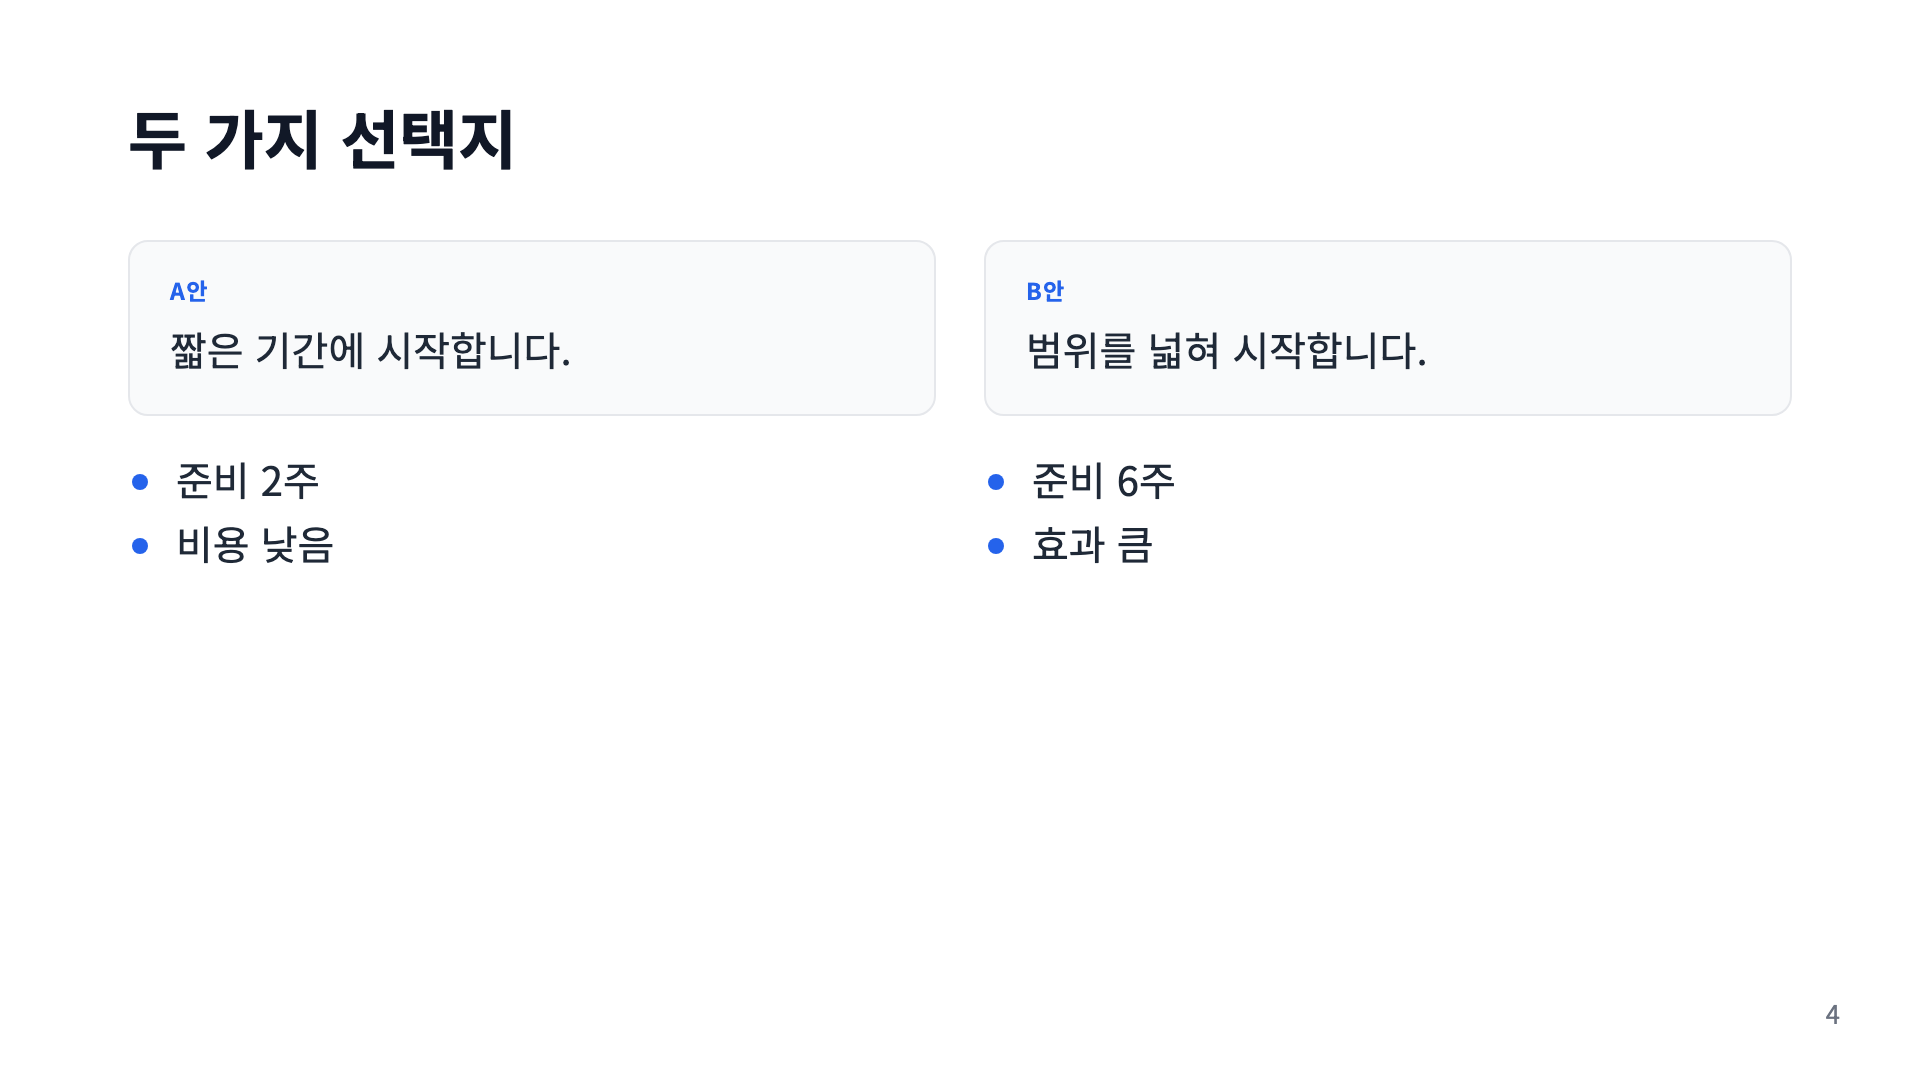
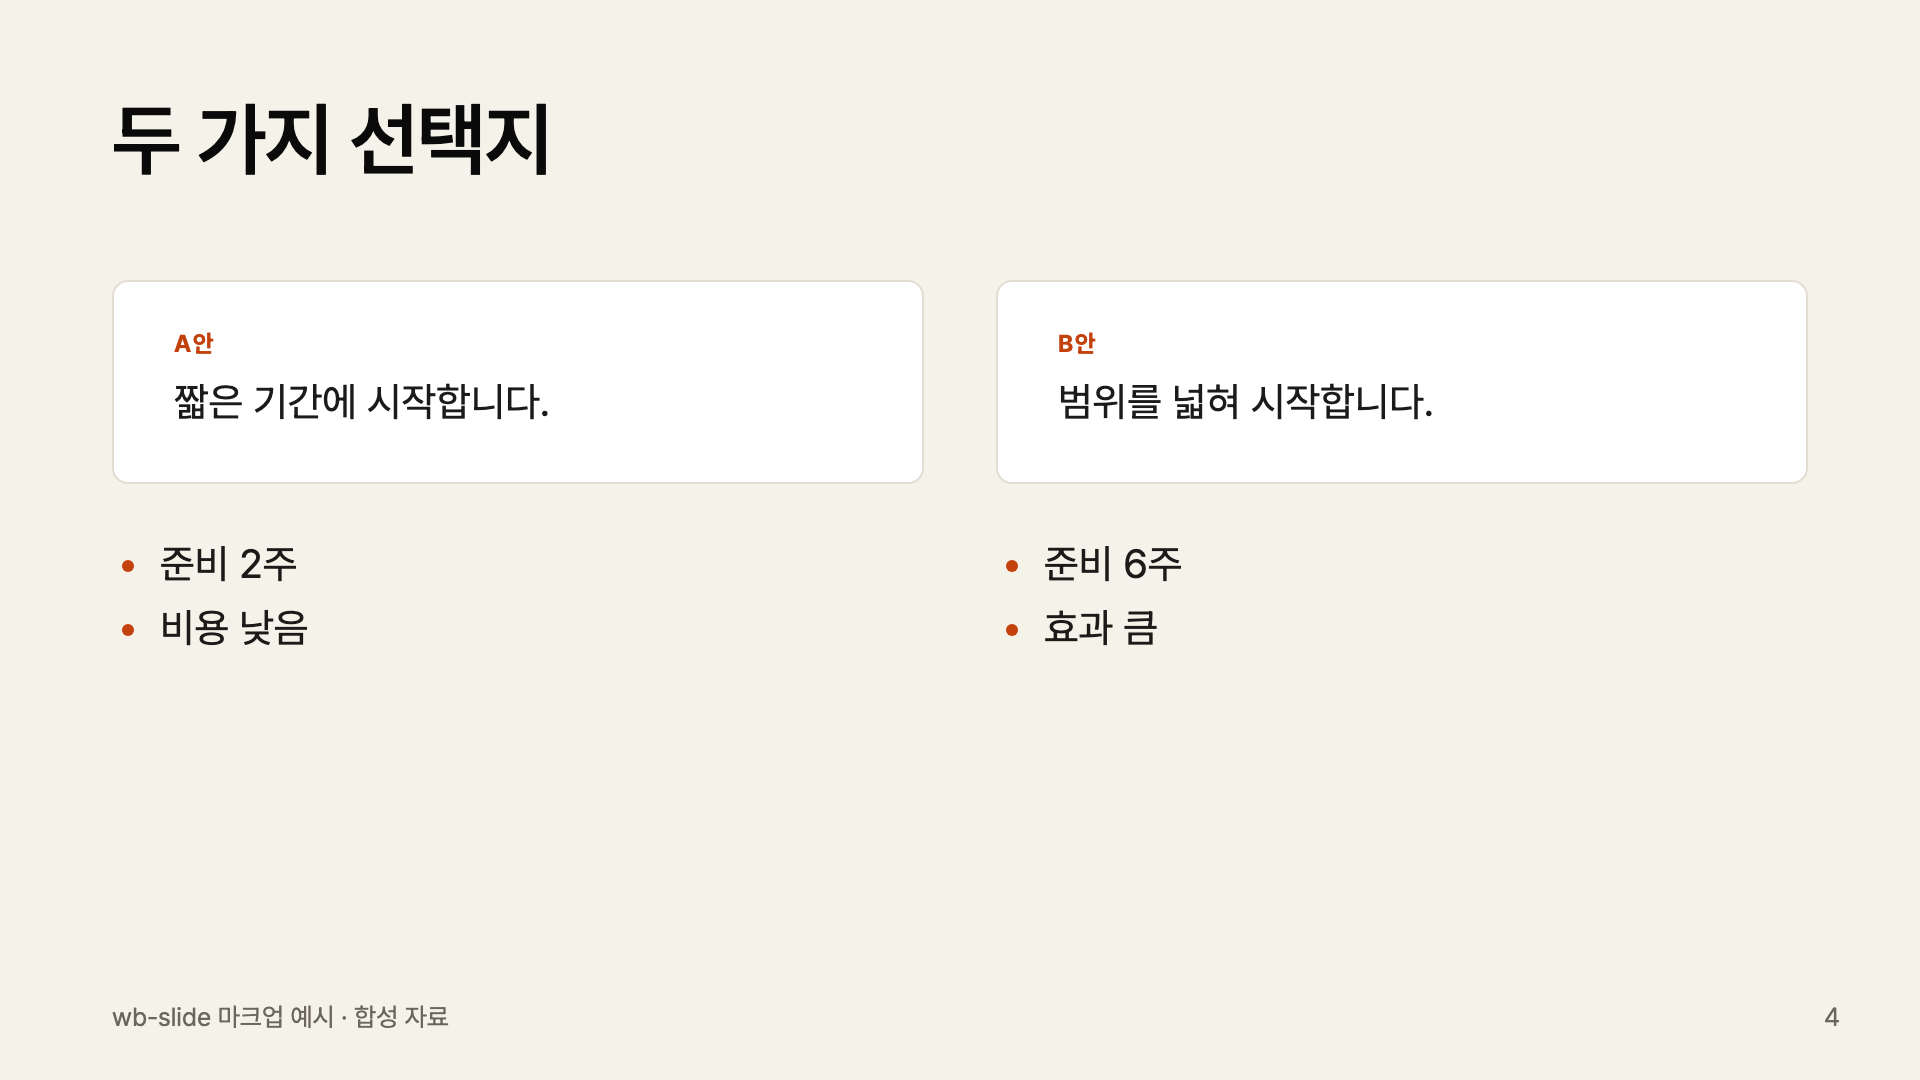
feat: paper becomes the default markup theme; old look is classic
Per butler: default.css now holds the design study's paper tokens, and the
name paper stays as an alias. The earlier white default is --theme classic.
Sample PNGs are re-rendered with PretendardVariable.

Sonnet review fixes:
- overflow-wrap: anywhere, so long tokens cannot widen grid tracks.
- classic and night keep the 0.72rem label size.
- Docs say the stat size and inverse colours are reserved until the stat and
  section PRs; the token table covers all themes.

diff --git a/framework/presets/themes/default.css b/framework/presets/themes/default.css
@@ -1,26 +1,26 @@
 --wb-font: Pretendard, -apple-system, 'Segoe UI', Roboto, sans-serif;
---wb-title-size: 32px;
---wb-title-weight: 700;
---wb-title-color: #111827;
---wb-subtitle-size: 22px;
+--wb-title-size: 40px;
+--wb-title-weight: 600;
+--wb-title-color: #0A0A0A;
+--wb-subtitle-size: 24px;
 --wb-body-size: 20px;
---wb-center-size: 40px;
---wb-text: #1F2937;
---wb-muted: #6B7280;
---wb-accent: #2563EB;
---wb-bg: #FFFFFF;
---wb-card-bg: #F9FAFB;
---wb-border: #E5E7EB;
---wb-radius: 10px;
---wb-safe-x: 64px;
+--wb-center-size: 64px;
+--wb-text: #1C1B19;
+--wb-muted: #6B675F;
+--wb-accent: #C2410C;
+--wb-bg: #F5F2EA;
+--wb-card-bg: #FFFFFF;
+--wb-border: #E2DDD2;
+--wb-radius: 8px;
+--wb-safe-x: 56px;
 --wb-safe-y: 48px;
---wb-gap: 16px;
---wb-image-height: 280px;
---wb-vertical: safe center;
---wb-title-tracking: normal;
---wb-title-leading: 1.25;
---wb-measure: 100%;
---wb-stat-size: 96px;
+--wb-gap: 24px;
+--wb-image-height: 300px;
+--wb-vertical: start;
+--wb-title-tracking: -0.02em;
+--wb-title-leading: 1.1;
+--wb-measure: 60%;
+--wb-stat-size: 120px;
 --wb-label-size: 12px;
---wb-inverse-bg: #111827;
---wb-inverse-text: #F9FAFB;
+--wb-inverse-bg: #1C1B19;
+--wb-inverse-text: #F5F2EA;

diff --git a/framework/presets/themes/classic.css b/framework/presets/themes/classic.css
@@ -1,0 +1,26 @@
+--wb-font: Pretendard, -apple-system, 'Segoe UI', Roboto, sans-serif;
+--wb-title-size: 32px;
+--wb-title-weight: 700;
+--wb-title-color: #111827;
+--wb-subtitle-size: 22px;
+--wb-body-size: 20px;
+--wb-center-size: 40px;
+--wb-text: #1F2937;
+--wb-muted: #6B7280;
+--wb-accent: #2563EB;
+--wb-bg: #FFFFFF;
+--wb-card-bg: #F9FAFB;
+--wb-border: #E5E7EB;
+--wb-radius: 10px;
+--wb-safe-x: 64px;
+--wb-safe-y: 48px;
+--wb-gap: 16px;
+--wb-image-height: 280px;
+--wb-vertical: safe center;
+--wb-title-tracking: normal;
+--wb-title-leading: 1.25;
+--wb-measure: 100%;
+--wb-stat-size: 96px;
+--wb-label-size: 0.72rem;
+--wb-inverse-bg: #111827;
+--wb-inverse-text: #F9FAFB;

diff --git a/framework/presets/slide.css b/framework/presets/slide.css
@@ -8,7 +8,7 @@
   --color-border: var(--wb-border);
 }
 /* Korean wraps between words, never inside one; very long tokens may still break. */
-.ms-slide-container { word-break: keep-all; overflow-wrap: break-word; }
+.ms-slide-container { word-break: keep-all; overflow-wrap: anywhere; }
 .ms-feature-layout { padding: var(--wb-safe-y) var(--wb-safe-x); gap: var(--wb-gap); }
 .ms-slide-title {
   font-size: var(--wb-title-size);

diff --git a/framework/presets/themes/night.css b/framework/presets/themes/night.css
@@ -21,6 +21,6 @@
 --wb-title-leading: 1.25;
 --wb-measure: 100%;
 --wb-stat-size: 96px;
---wb-label-size: 12px;
+--wb-label-size: 0.72rem;
 --wb-inverse-bg: #F9FAFB;
 --wb-inverse-text: #111827;

diff --git a/src/markup.rs b/src/markup.rs
@@ -10,7 +10,7 @@ const DEFAULT_THEME: &str = include_str!("../framework/presets/themes/default.cs
 /// Built-in themes beside default; each sets every token.
 const THEMES: &[(&str, &str)] = &[
     ("night", include_str!("../framework/presets/themes/night.css")),
-    ("paper", include_str!("../framework/presets/themes/paper.css")),
+    ("classic", include_str!("../framework/presets/themes/classic.css")),
     ("graphite", include_str!("../framework/presets/themes/graphite.css")),
     ("signal", include_str!("../framework/presets/themes/signal.css")),
 ];
@@ -324,7 +324,8 @@ fn tokens(source: &str, origin: &str) -> Result<String> {
 /// Preset CSS: default tokens, then the chosen theme (built-in name or token file), then role styles.
 pub fn preset_css(theme: Option<&str>) -> Result<String> {
     let overrides = match theme {
-        None | Some("default") => String::new(),
+        // paper is the default look; the name stays as an alias.
+        None | Some("default") | Some("paper") => String::new(),
         Some(name) if THEMES.iter().any(|(n, _)| *n == name) => {
             tokens(THEMES.iter().find(|(n, _)| *n == name).unwrap().1, name)?
         }
@@ -517,15 +518,16 @@ mod tests {
     #[test]
     fn preset_defaults_and_theme_override() {
         let css = preset_css(None).unwrap();
-        assert!(css.contains("--wb-title-size: 32px;") && css.contains("--wb-font: Pretendard"));
+        assert!(css.contains("--wb-title-size: 40px;") && css.contains("--wb-font: Pretendard"));
         assert!(css.contains(".ms-slide-title") && css.contains("var(--wb-title-size)"));
         let night = preset_css(Some("night")).unwrap();
         // Overrides come after defaults inside :root, so the later value wins.
-        assert!(night.rfind("--wb-title-size: 36px;").unwrap() > night.find("--wb-title-size: 32px;").unwrap());
+        assert!(night.rfind("--wb-title-size: 36px;").unwrap() > night.find("--wb-title-size: 40px;").unwrap());
         for (name, source) in THEMES {
             assert_eq!(tokens(source, name).unwrap().lines().count(), token_names().len(), "{name}");
         }
-        assert!(preset_css(Some("paper")).unwrap().contains("--wb-bg: #F5F2EA;"));
+        assert_eq!(preset_css(Some("paper")).unwrap(), css);
+        assert!(preset_css(Some("classic")).unwrap().contains("--wb-title-size: 32px;"));
         assert!(tokens("--wb-vertical: start;", "t").is_ok());
         for (bad, msg) in [
             ("--wb-bg: url(http://x);", "must be plain"),

diff --git a/tools/test_render.py b/tools/test_render.py
@@ -146,7 +146,7 @@ class RenderTest(unittest.TestCase):
 
     def test_markup_preset_themes_apply(self):
         corners = {}
-        for theme in ["default", "night", "paper", "graphite", "signal"]:
+        for theme in ["classic", "default", "night", "graphite", "signal"]:
             output = self.root / f"{theme}.html"
             subprocess.run([self.binary, "export", "--markup", ROOT / "samples/markup/deck.html",
                             "--theme", theme, "-o", output], check=True)
@@ -179,14 +179,14 @@ class RenderTest(unittest.TestCase):
             body = ImageChops.difference(png, Image.new("RGB", png.size, png.getpixel((4, 4)))).crop((0, 360, 1920, 1000)).getbbox()
             self.assertIsNotNone(body)
             # The study themes hang the body from the top axis (--wb-vertical: start).
-            if theme in ("default", "night"):
+            if theme in ("classic", "night"):
                 self.assertGreater(body[1], 120)
             else:
                 self.assertLess(body[1], 60)
             corners[theme] = png.getpixel((4, 4))
-        self.assertEqual(corners["default"], (255, 255, 255))
+        self.assertEqual(corners["classic"], (255, 255, 255))
+        self.assertEqual(corners["default"], (0xF5, 0xF2, 0xEA))
         self.assertEqual(corners["night"], (0x11, 0x18, 0x27))
-        self.assertEqual(corners["paper"], (0xF5, 0xF2, 0xEA))
         self.assertEqual(corners["graphite"], (0x0B, 0x0C, 0x0E))
         self.assertEqual(corners["signal"], (0x3B, 0x2B, 0xDB))
 

diff --git a/docs/markup-dsl.md b/docs/markup-dsl.md
@@ -58,11 +58,11 @@ The preset has two layers:
   theme too.
 - **A theme**: a swappable set of token values covering fonts, type scale,
   palette, spacing and per-role styles. Each theme is a file of
-  `--wb-name: value;` lines. The built-in themes are `themes/default.css`, `night.css`, and the
-  design-study themes `paper.css` (light editorial), `graphite.css` (dark) and
-  `signal.css` (bold).
+  `--wb-name: value;` lines. The built-in themes are `themes/default.css` (the design
+  study's light "paper" look; `paper` is an alias), `classic.css` (the earlier
+  white default), `night.css`, `graphite.css` (dark) and `signal.css` (bold).
 
-`wb-slide export --markup deck.html [--theme default|night|paper|graphite|signal|tokens.css]` emits
+`wb-slide export --markup deck.html [--theme default|classic|night|graphite|signal|tokens.css]` emits
 the default tokens, then the chosen theme's tokens (the later value wins), then
 the role styles. A token file can override only some tokens.
 
@@ -71,27 +71,29 @@ theme. Values are plain, with no functions, `@`, braces, comments or double quot
 theme cannot load URLs or inject rules. The limit is 8 KiB. Built-in themes are
 checked by the same parser. The plain `--spec` output is unchanged.
 
-| Token | default | night |
-|---|---|---|
-| `--wb-font` | Pretendard, system sans | same |
-| `--wb-title-size` / `-weight` / `-color` | 32px / 700 / #111827 | 36px / 800 / #F9FAFB |
-| `--wb-body-size` / `--wb-center-size` | 20px / 40px | 22px / 44px |
-| `--wb-text` / `--wb-muted` / `--wb-accent` / `--wb-bg` | light palette | dark palette |
-| `--wb-safe-x` / `--wb-safe-y` / `--wb-gap` | 64 / 48 / 16px | 72 / 56 / 20px |
-| `--wb-vertical` (body under a title: `start`, `safe center` or `space-evenly`; other values are errors) | safe center | safe center |
+| Token | default (paper) | classic | night | graphite | signal |
+|---|---|---|---|---|---|
+| `--wb-bg` / `--wb-accent` | #F5F2EA / #C2410C | #FFFFFF / #2563EB | #111827 / #F59E0B | #0B0C0E / #7C83F0 | #3B2BDB / #D7FF3A |
+| `--wb-title-size` / `-weight` | 40px / 600 | 32px / 700 | 36px / 800 | 40px / 600 | 44px / 700 |
+| `--wb-body-size` / `--wb-center-size` | 20 / 64px | 20 / 40px | 22 / 44px | 20 / 64px | 22 / 72px |
+| `--wb-title-tracking` / `-leading` | -0.02em / 1.1 | normal / 1.25 | normal / 1.25 | -0.02em / 1.1 | -0.02em / 1.05 |
+| `--wb-measure` (body width under a title) | 60% | 100% | 100% | 60% | 60% |
+| `--wb-vertical` (`start`, `safe center` or `space-evenly`; others are errors) | start | safe center | safe center | start | start |
+
+Every theme sets all tokens; see the files for the rest (`--wb-font` is Pretendard in all).
 
 At render time `render.py` substitutes the operator's approved font file. Pass
 a Pretendard variable `.ttf` (e.g. `PretendardVariable.ttf`) to get Pretendard in PNG/PDF.
 The preset sets `word-break: keep-all`, so Korean wraps between words.
 
-The study themes (`paper`, `graphite`, `signal`) follow the design study's principles:
+The study themes (`default`/`paper`, `graphite`, `signal`) follow the design study's principles:
 - a warm off-white or dark ground;
 - one accent;
 - tight titles (`--wb-title-tracking`, `--wb-title-leading`);
 - body text capped at a 60% measure (`--wb-measure`);
 - the body hung from the top axis (`--wb-vertical: start`).
-`--wb-stat-size`, `--wb-label-size` and `--wb-inverse-bg`/`--wb-inverse-text` are used by the stat and section
-patterns. In `default` and `night` these tokens keep the earlier look.
+`--wb-label-size` sizes card labels. `--wb-stat-size` and `--wb-inverse-bg`/`--wb-inverse-text` are reserved
+for the stat and section patterns (next PRs); no rule reads them yet. `classic` and `night` keep the earlier look.
 
 **Alternate theme example.** The `night` theme is built in (`--theme night`).
 A custom theme is a token file. This one overrides only some tokens and
@@ -109,7 +111,7 @@ Saved as `brand.css`:
 wb-slide export --markup deck.html --theme brand.css -o deck.html
 ```
 
-Rendered samples: `samples/markup/default.png`, `night.png`, and
+Rendered samples: `samples/markup/default.png`, `classic.png`, `night.png`, `graphite.png`, `signal.png`, and
 `centered.png` (a bare slide).
 
 ## Semantics

diff --git a/docs/markup-dsl-guide.md b/docs/markup-dsl-guide.md
@@ -6,7 +6,7 @@ in [markup-dsl.md](markup-dsl.md).
 ## 1. Command
 
 ```sh
-wb-slide export --markup deck.html [--theme default|night|paper|graphite|signal|tokens.css] -o /absolute/out.html
+wb-slide export --markup deck.html [--theme default|classic|night|graphite|signal|tokens.css] -o /absolute/out.html
 python tools/render.py /absolute/out.html --output /absolute/new-dir \
   --font-file /path/to/licensed-variable.ttf [--pdf] [--scale 1|2] [--browser /path/to/chrome]
 ```
@@ -96,8 +96,9 @@ Slide I is the I-th `<wb-slide>` counting from 0. The render manifest counts fro
 
 ## 6. Themes
 
-`--theme default` (or omitted), a built-in `night`, `paper` (warm light editorial), `graphite` (dark product) or
-`signal` (bold indigo), or `--theme path/to/tokens.css`. The study themes hang the body from the top (`--wb-vertical: start`).
+`--theme default` (or omitted; warm off-white editorial, alias `paper`), a built-in `classic` (earlier white look),
+`night`, `graphite` (dark) or `signal` (bold indigo), or `--theme path/to/tokens.css` (a file named like a built-in
+needs a `./` prefix). default, graphite and signal hang the body from the top (`--wb-vertical: start`).
 A token file is one `--wb-name: value;` per line, each ending in `;`; blank lines allowed; no comments; unset tokens keep the default.
 Values must be plain: none of `( ) { } ; < > @ \ " / *`.
 Errors: `FILE:LINE: expected \`--wb-name: value;\``, `FILE:LINE: unknown token NAME`, `FILE:LINE: value must be plain …`,
@@ -109,7 +110,7 @@ Tokens: `--wb-font`, `--wb-title-size`, `--wb-title-weight`, `--wb-title-color`,
 `--wb-accent`, `--wb-bg`, `--wb-card-bg`, `--wb-border`, `--wb-radius`, `--wb-safe-x`,
 `--wb-safe-y`, `--wb-gap`, `--wb-image-height`, `--wb-vertical`, `--wb-title-tracking`,
 `--wb-title-leading`, `--wb-measure` (max width of body text under a title), `--wb-stat-size`,
-`--wb-label-size`, `--wb-inverse-bg`, `--wb-inverse-text`.
+`--wb-label-size`, `--wb-inverse-bg`, `--wb-inverse-text` (the stat size and inverse colours are reserved; nothing reads them yet).
 
 `--wb-vertical` accepts only `start`, `safe center` or `space-evenly`.
 

diff --git a/CHANGELOG.md b/CHANGELOG.md
@@ -6,10 +6,11 @@ All notable changes to wb-slide.
 
 ### Added
 
-- Built-in preset themes `paper`, `graphite` and `signal` (design study), new tokens
+- **The default markup theme is now the design study's warm "paper" look** (alias `paper`); the earlier
+  white default is `--theme classic`. New built-in themes `graphite` and `signal`, new tokens
   `--wb-title-tracking`, `--wb-title-leading`, `--wb-measure`, `--wb-stat-size`, `--wb-label-size`,
   `--wb-inverse-bg` and `--wb-inverse-text`, and Korean `word-break: keep-all` in the preset.
-- **Slide markup front-end** (issue #23). `wb-slide export --markup deck.html [--theme default|night|tokens.css]`
+- **Slide markup front-end** (issue #23). `wb-slide export --markup deck.html [--theme NAME|tokens.css]`
   compiles `<wb-slide>`/`<wb-title>`/body text deterministically to the typed spec
   and applies a themeable slide preset (Pretendard, 32px title, safe areas). See
   `docs/markup-dsl.md`.
